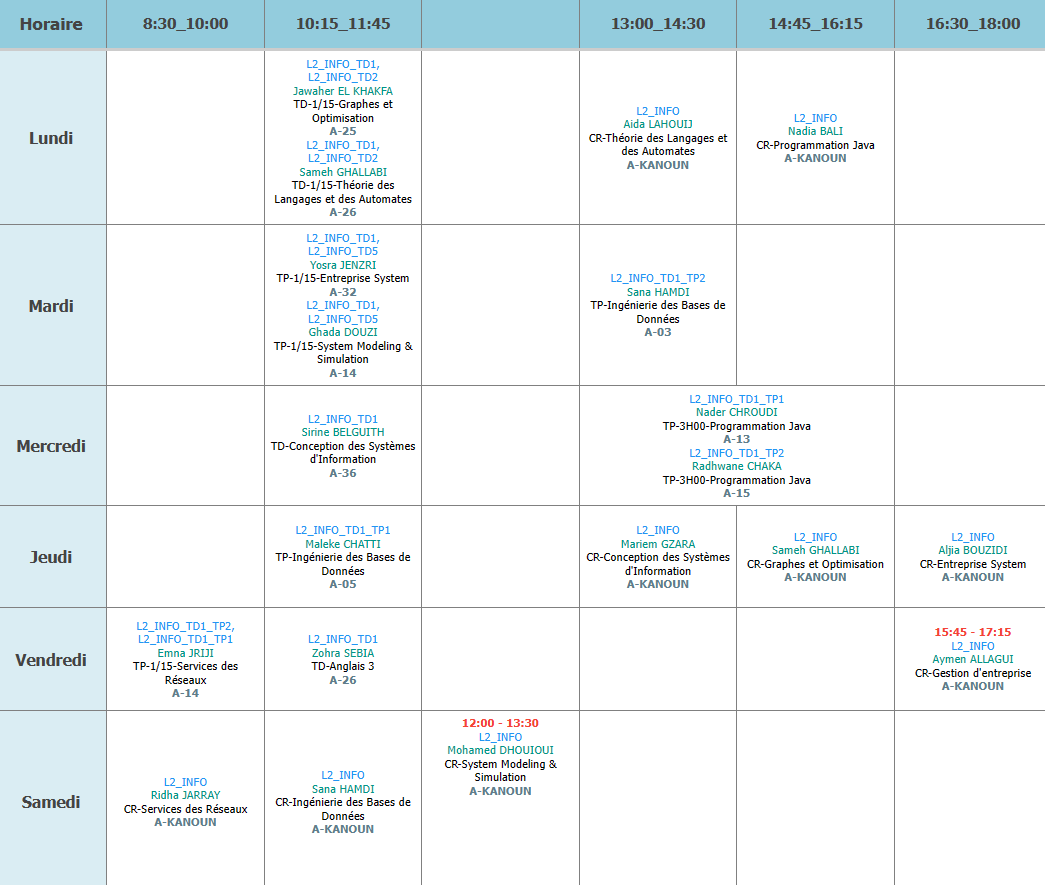
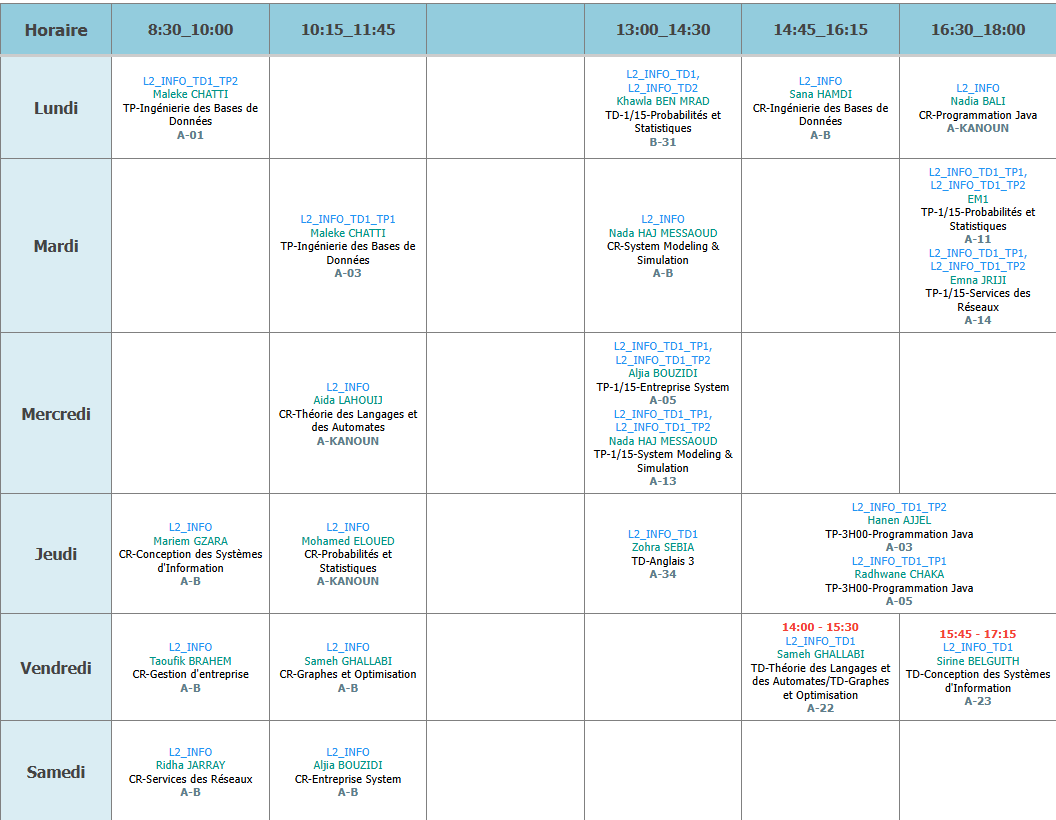
update timetables to work with L2 and L3

diff --git a/pages/2_📅_Time Tables.py b/pages/2_📅_Time Tables.py
@@ -15,11 +15,41 @@ img,bg=st.columns([0.2,0.8],gap="large")
 
 img.image("media/isimm logo/isimm logo _ 20.png", width=270)
 bg.image("media/banner.jpeg", use_column_width=True)
+
+
+
+
+
 with st.sidebar:
-    semester=st.selectbox(label="Chose a Semester" ,options=["Semester 1","Semester 2"])
-tdGroups=["TD1","TD2","TD3","TD4","TD5"]
+
+    
+    # Radio buttons for selecting year
+    year = st.radio(
+        label="Choose Year : ", 
+        options=["L3", "L2"], 
+        index=0  # Default to L3 (first option)
+    )
+    
+    # Display semester options based on the selected year
+    if year == "L3":
+        semester = st.radio(
+            label="Choose Semester :", 
+            options=["Semester 1"], 
+            index=0  # Default to Semester 1 (first option)
+        )
+    else:
+        semester = st.radio(
+            label="Choose Semester : ", 
+            options=["Semester 1", "Semester 2"]
+        )
+    
+if year =="L3":               
+    tdGroups=["TD1","TD2","TD3","TD4","TD5"]
+else:
+     tdGroups=["TD1","TD2","TD3","TD4"]
+
 group=st.selectbox("Please choose your TD group ",options=tdGroups)
-filePath = f'resources/timeTables/{semester}/L3/{group}.png'
+filePath = f'resources/timeTables/{semester}/{year}/{group}.png'
 image=st.image(image=filePath,use_column_width=True)
 st.toast(f" Displaying {group[:-1]+' '+group[-1]} Time Table",icon="🙌")
 
